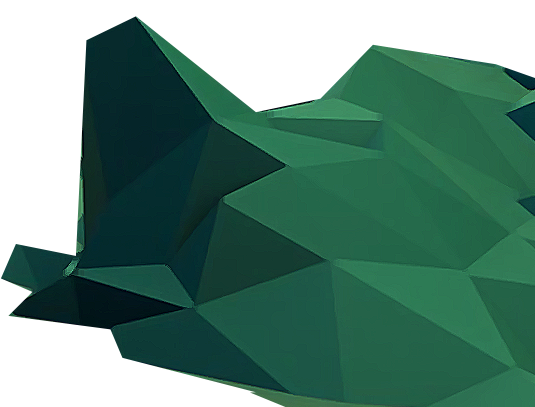
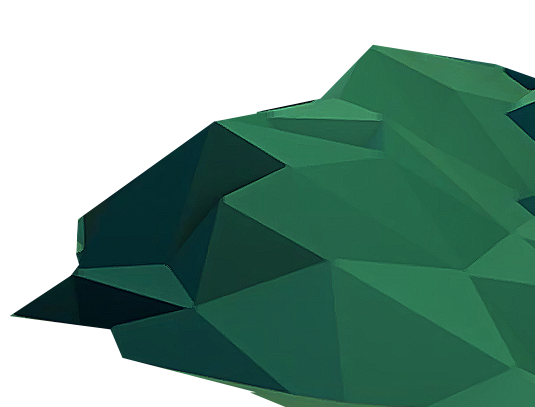
parallax head final

Changed region(s): [[0.1196, 0.0295, 0.4785, 0.5307], [0.0, 0.5897, 0.1495, 0.7666]]

diff --git a/css/style.scss b/css/style.scss
@@ -124,26 +124,55 @@ html{
 						}
 					}
 					&.img1{
-						z-index: 1;
+						z-index: 2;
 						img{
 							position: absolute;
   							top: -20px;
+  							z-index: 1;
 						}
 					}
 					&.img2{
 						img{
 							position: absolute;
 							bottom: -10px;
-							left: -20px;
+							left: -50px;
+							z-index: 1;
 						}
 					}
 					&.img3{
-						z-index: 2;
+						img{
+							position: absolute;
+							z-index: 2;
+							right: -20px;
+							bottom: 0px;
+						}
 					}
 					&.img4{
-						z-index: 1;
+						z-index: 2;
+						img{
+							position: absolute;
+							z-index: 2;
+							right: 0px;
+							left: 0px;
+							margin: auto;
+							bottom: -10px;
+						}
 					}
 					&.img5{
+						img{
+							position: absolute;
+							z-index: 0;
+							right: 30px;
+							bottom: -50px;
+						}
+					}
+					&.img6{
+						img{
+							position: absolute;
+							z-index: 0;
+							left: 0px;
+							bottom: -100px;
+						}
 					}
 				}
 			}

diff --git a/_includes/header.html b/_includes/header.html
@@ -4,8 +4,9 @@
     	<div class="parallax-layer img0"><img src="./imgs/PARALLAX/fondo-parallax.png"></div>
         <div class="parallax-layer img1"><img src="./imgs/PARALLAX/part1.png"></div>
         <div class="parallax-layer img2"><img src="./imgs/PARALLAX/part2.png"></div>
-        <div class="parallax-layer img3"><!--img src="./imgs/PARALLAX/part3.png"--></div>
-        <div class="parallax-layer img4"><!--img src="./imgs/PARALLAX/part4.png"--></div>
-        <div class="parallax-layer img5"><!--img src="./imgs/PARALLAX/part5.png"--></div>
+        <div class="parallax-layer img3"><img src="./imgs/PARALLAX/part3.png"></div>
+        <div class="parallax-layer img4"><img src="./imgs/PARALLAX/part4.png"></div>
+        <div class="parallax-layer img5"><img src="./imgs/PARALLAX/part5.png"></div>
+        <div class="parallax-layer img6"><img src="./imgs/PARALLAX/part6.png"></div>
     </div>
 </div>

diff --git a/js/main.js b/js/main.js
@@ -143,9 +143,13 @@ $(document).on('ready',
 // P A R A L L A X //
 	$('.parallax-layer').parallax(
 		{},
+		{xparallax: '40px', yparallax: '10px'},
+		{xparallax: '0px', yparallax: '30px'},
+		{xparallax: '50px', yparallax: '10px'},
+		{xparallax: '0px', yparallax: '10px'},
+		{xparallax: '600px', yparallax: '20px'},
 		{xparallax: '20px', yparallax: '10px'},
-		{xparallax: '0px', yparallax: '20px'},
-		{xparallax: '20px', yparallax: '10px'}
+		{xparallax: '100px', yparallax: '10px'}
 	);
 });
 
